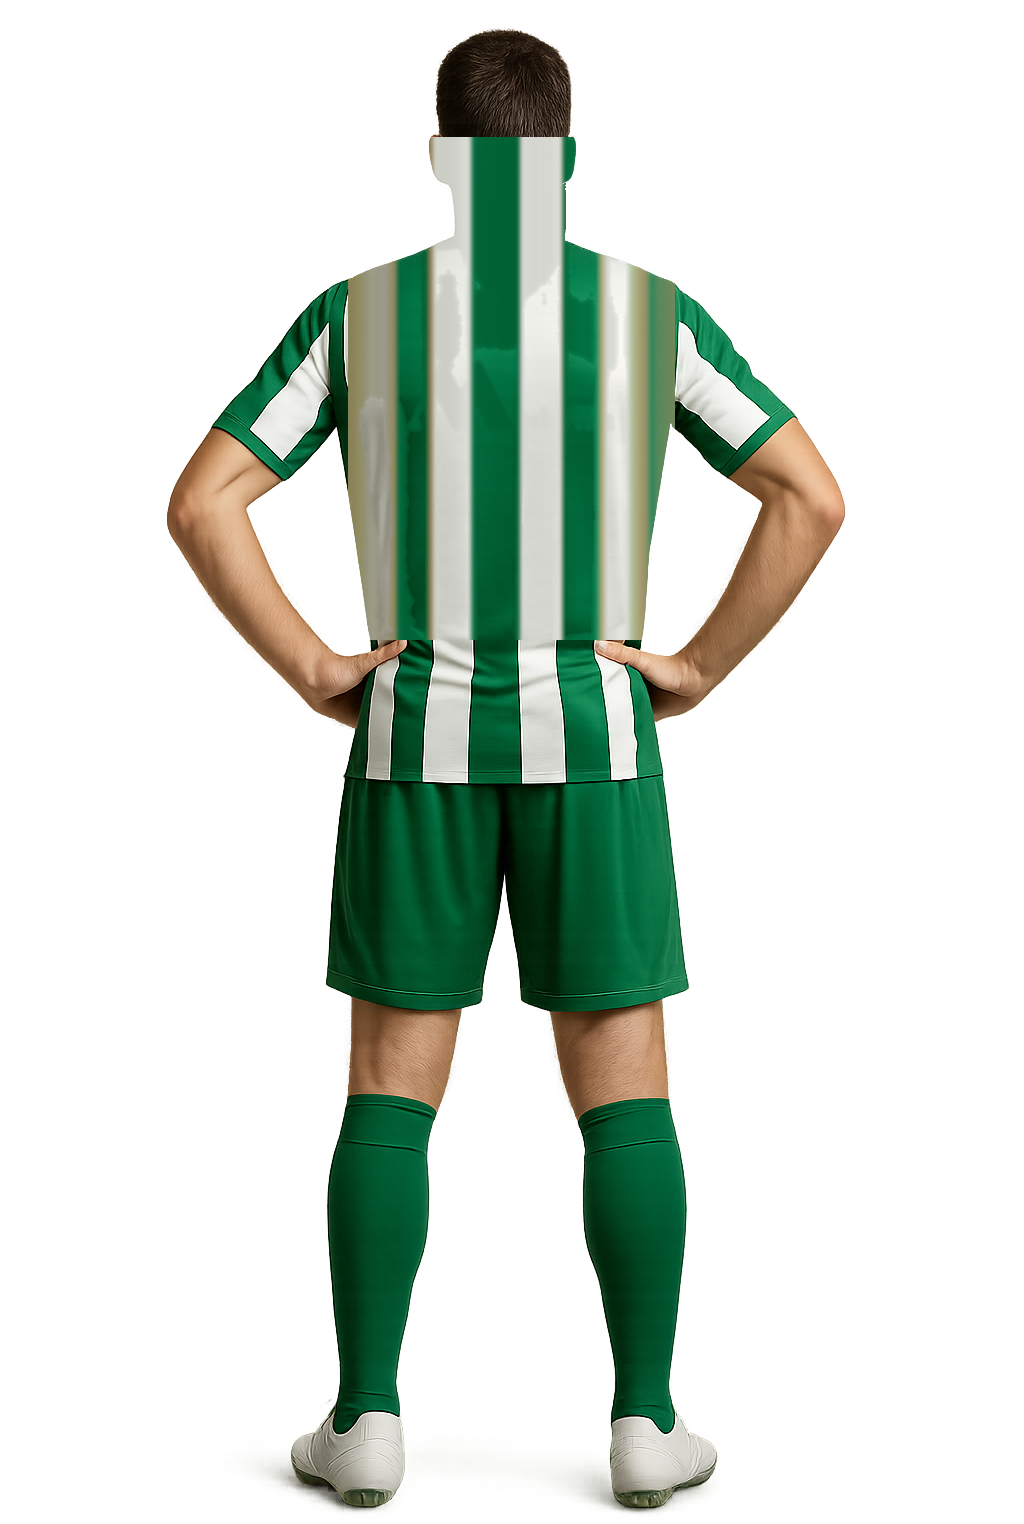
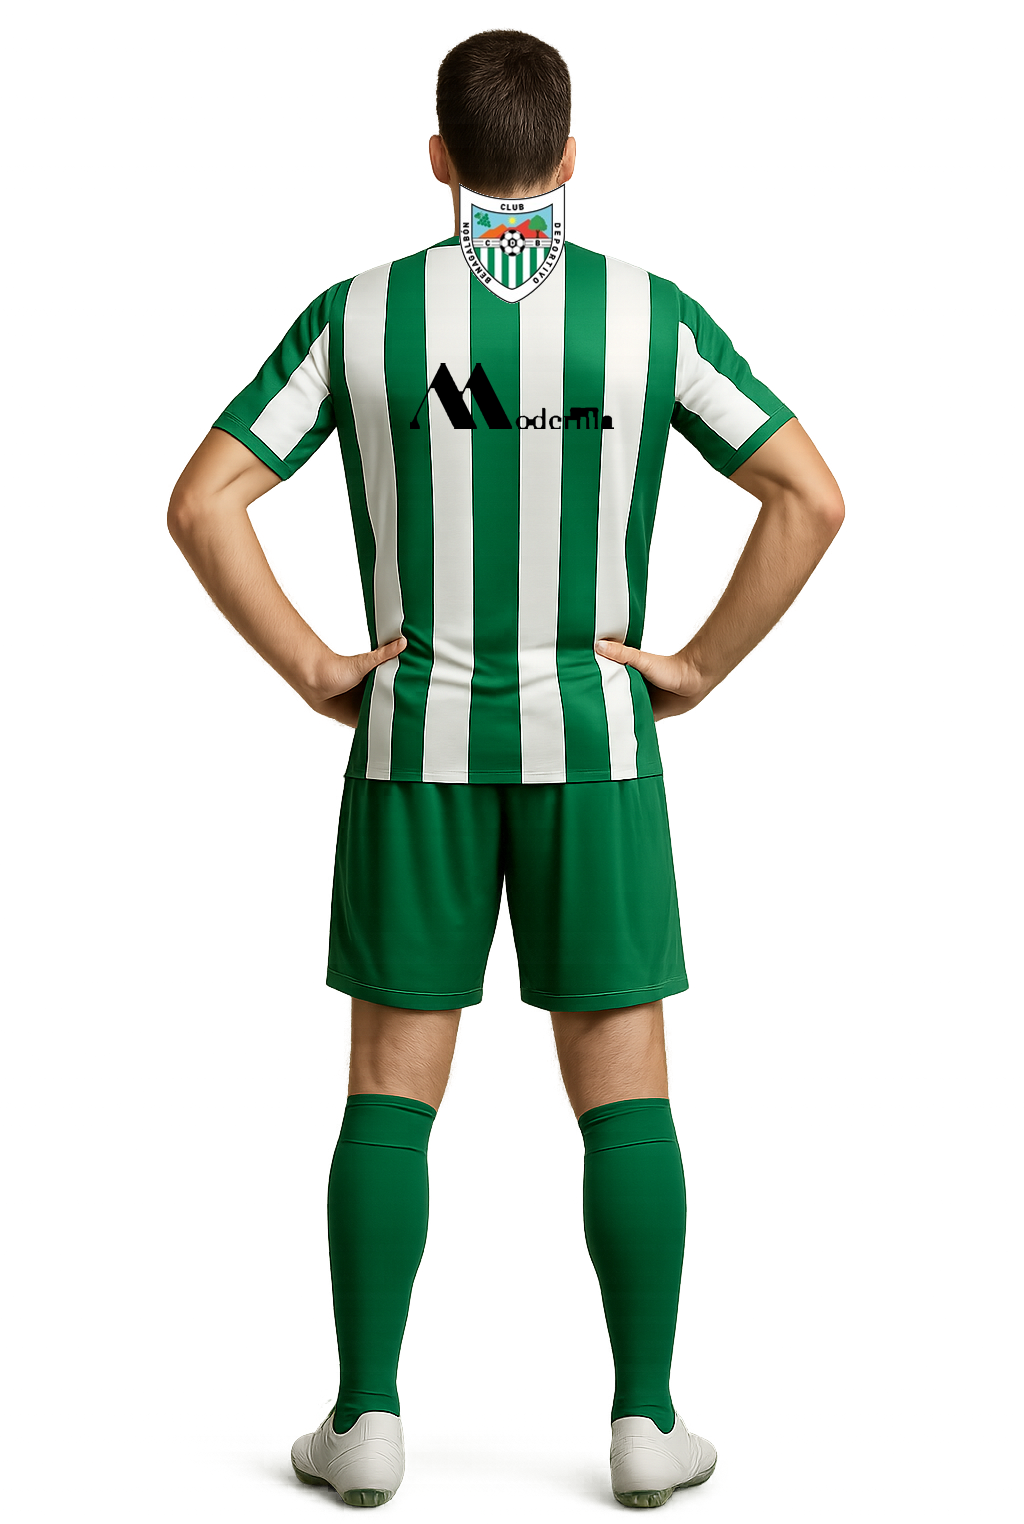
Editor 2D: revertir retoque de espaldas y ocultar poses (pendiente regenerar con IA)
El retoque por codigo de las imagenes 'de espaldas' quedaba como pegatina/cuadrado
(no se puede igualar la calidad de la IA fotorrealista editando pixeles). Se
restauran las 8 imagenes originales (conducir/pie) y se vuelven a OCULTAR las 3
poses de espaldas. Quedan pendientes de REGENERAR con la IA: logo Modernia arriba
y hueco para el dorsal (que pintaria la app).

Changed region(s): [[0.3125, 0.0925, 0.6562, 0.4318]]

diff --git a/football/templates/football/includes/task_builder/editor_chrome.html b/football/templates/football/includes/task_builder/editor_chrome.html
@@ -240,10 +240,11 @@
   // Jugadores de campo: 12 acciones x 4 colores de equipo.
   var EDC_AV_FIELD = { colors:['amarilla','blanca','turquesa','verde'], acts:[
     ['conduccion','Conducción'],['control','Control'],['defensa','Defensa'],
-    // Poses de espaldas: sus imágenes llevaban escudo/patrocinador estampados en la espalda; se han
-    // limpiado (rayas limpias) las de 'conducir' y 'pie'. 'esp-correr' sigue OCULTA porque su parche
-    // se nota (cuerpo en ángulo); para reactivarla, añade ['esp-correr','Correr'], aquí y en EDC_AV_POSES.
-    ['esp-conducir','Conducir'],['esp-pie','Con el pie'],
+    // Poses de espaldas OCULTAS: las imágenes originales llevan el escudo y el logo de Modernia
+    // estampados en la espalda en posiciones equivocadas (logo donde va el nombre, escudo/patrocinador
+    // donde va el dorsal). El retoque por código se ve como pegatina; hay que REGENERAR las imágenes de
+    // espaldas con la IA (logo Modernia arriba + hueco para el dorsal, que pinta la app). Para reactivar
+    // una pose, añádela aquí y en EDC_AV_POSES: ['esp-conducir','Conducir'],['esp-correr','Correr'],['esp-pie','Con el pie'],
     ['pase','Pase'],['remate','Remate'],['run','Carrera'],
     ['saque','Saque'],['sprint','Sprint'],['tiro','Tiro'] ] };
   // Porteros: 3 poses x 4 colores.
@@ -276,9 +277,8 @@
     grid.appendChild(strip);
   }
   // -------- Selector de POSE + EQUIPACIÓN del avatar (campo y portero) --------
-  // Poses de espaldas 'esp-conducir' y 'esp-pie' reactivadas (imágenes limpiadas). 'esp-correr' sigue
-  // OCULTA (su parche se nota por el ángulo del cuerpo); para reactivarla añade ['esp-correr','Correr'].
-  var EDC_AV_POSES = [['conduccion','Conducción'],['control','Control'],['pase','Pase'],['remate','Remate'],['tiro','Tiro'],['sprint','Sprint'],['run','Carrera'],['defensa','Defensa'],['esp-conducir','Conducir'],['esp-pie','Con el pie'],['saque','Saque']];
+  // Poses de espaldas OCULTAS hasta regenerar las imágenes con la IA (ver nota en EDC_AV_FIELD).
+  var EDC_AV_POSES = [['conduccion','Conducción'],['control','Control'],['pase','Pase'],['remate','Remate'],['tiro','Tiro'],['sprint','Sprint'],['run','Carrera'],['defensa','Defensa'],['saque','Saque']];
   var EDC_AV_COLORS_F = [['verde','Verde'],['blanca','Blanca'],['amarilla','Amarilla'],['turquesa','Turquesa']];
   var EDC_AV_GK_POSES = [['frente','De frente'],['estirada','Estirada'],['salto','Salto']];
   var EDC_AV_COLORS_GK = [['azul','Azul'],['rojo','Rojo'],['negro','Negro'],['magenta','Magenta']];
